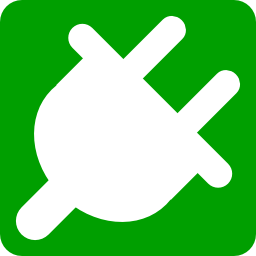
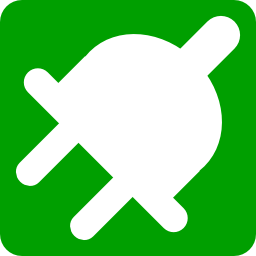
shvspy: connect to broker working

Changed region(s): [[0.25, 0.0625, 0.9375, 0.75], [0.0625, 0.25, 0.75, 0.9375]]

diff --git a/shvspy/src/servertreemodel/servernode.cpp b/shvspy/src/servertreemodel/servernode.cpp
@@ -27,18 +27,19 @@ QVariant ServerNode::data(int role) const
 		//}
 	}
 	else if(role == Qt::DecorationRole) {
-		static QIcon connected = QIcon(QStringLiteral(":/shvspy/images/connected.png"));
-		static QIcon disconnected = QIcon(QStringLiteral(":/shvspy/images/disconnected.png"));
-		ret = isConnected()? connected: disconnected;
+		static QIcon ico_connected = QIcon(QStringLiteral(":/shvspy/images/connected.png"));
+		static QIcon ico_connecting = QIcon(QStringLiteral(":/shvspy/images/connecting.png"));
+		static QIcon ico_disconnected = QIcon(QStringLiteral(":/shvspy/images/disconnected.png"));
+		switch (openStatus()) {
+		case OpenStatus::Connected: return ico_connected;
+		case OpenStatus::Connecting: return ico_connecting;
+		case OpenStatus::Disconnected: return ico_disconnected;
+		default: return QIcon();
+		}
 	}
 	else
 		ret = Super::data(role);
 	return ret;
-}
-
-bool ServerNode::isConnected() const
-{
-	return m_clientConnection && m_clientConnection->isBrokerConnected();
 }
 
 QVariantMap ServerNode::serverProperties() const
@@ -67,25 +68,22 @@ void ServerNode::setServerProperties(const QVariantMap &props)
 	emitDataChanged();
 }
 
-bool ServerNode::setConnected(bool b)
+void ServerNode::open()
 {
-	if(b == isConnected())
-		return true;
-	bool ret = true;
-	if(b) {
-		clientConnection()->open();
-		if(ret) {
-			//m_nodeId = clientConnection()->getRootNode();
-			//loadChildren(true);
-		}
-	}
-	else {
-		m_nodeId.clear();
-		clientConnection()->close();
-		removeRows(0, rowCount());
-	}
+	close();
+	clientConnection()->open();
+	m_openStatus = OpenStatus::Connecting;
 	emitDataChanged();
-	return ret;
+}
+
+void ServerNode::close()
+{
+	if(openStatus() == OpenStatus::Disconnected)
+		return;
+	if(m_clientConnection)
+		m_clientConnection->close();
+	m_openStatus = OpenStatus::Disconnected;
+	emitDataChanged();
 }
 /*
 QString ServerNode::connectionErrorString()
@@ -100,7 +98,11 @@ shv::iotqt::rpc::ClientConnection *ServerNode::clientConnection()
 {
 	if(!m_clientConnection) {
 		m_clientConnection = new shv::iotqt::rpc::ClientConnection(nullptr);
-		//m_clientConnection->setDebug(QApplication::instance()->arguments().contains(QStringLiteral("--opcua-debug")));
+		m_clientConnection->setCheckBrokerConnectedInterval(0);
+		connect(m_clientConnection, &shv::iotqt::rpc::ClientConnection::brokerConnectedChanged, this, [this](bool is_connected) {
+			m_openStatus = is_connected? OpenStatus::Connected: OpenStatus::Disconnected;
+			emitDataChanged();
+		});
 	}
 	return m_clientConnection;
 }

diff --git a/shvspy/src/mainwindow.cpp b/shvspy/src/mainwindow.cpp
@@ -191,25 +191,9 @@ void MainWindow::openNode(const QModelIndex &ix)
 {
 	//shvInfo() << QF_FUNC_NAME;
 	QStandardItem *it = TheApp::instance()->serverTreeModel()->itemFromIndex(ix);
-	{
-		ServerNode *nd = dynamic_cast<ServerNode*>(it);
-		if(nd) {
-			if(nd->isConnected()) {
-				nd->setConnected(false);
-			}
-			else {
-				bool ok = nd->setConnected(true);
-				if(ok) {
-					//shvInfo() << nd->client();
-					//connect(nd->clientConnection(), &qfopcua::Client::opcUaError, this, &MainWindow::showOpcUaError, (Qt::ConnectionType)(Qt::QueuedConnection | Qt::UniqueConnection));
-				}
-				else {
-					//QMessageBox::warning(this, tr("Connect error"), nd->connectionErrorString());
-				}
-			}
-			return;
-		}
-	}
+	ServerNode *nd = dynamic_cast<ServerNode*>(it);
+	if(nd)
+		nd->open();
 }
 
 void MainWindow::onCurrentSelectionChanged(const QModelIndex &curr_ix, const QModelIndex &prev_ix)

diff --git a/shvspy/src/servertreemodel/servernode.h b/shvspy/src/servertreemodel/servernode.h
@@ -10,6 +10,8 @@ class ServerNode : public ShvNodeItem
 private:
 	typedef ShvNodeItem Super;
 public:
+	enum class OpenStatus {Invalid = 0, Disconnected, Connecting, Connected};
+public:
 	explicit ServerNode(const std::string &server_name);
 	~ServerNode() Q_DECL_OVERRIDE;
 
@@ -18,8 +20,9 @@ public:
 	int oid() const {return m_oid;}
 	void setOid(int i) {m_oid = i;}
 
-	bool isConnected() const;
-	bool setConnected(bool b);
+	OpenStatus openStatus() const {return m_openStatus;}
+	void open();
+	void close();
 	//QString connectionErrorString();
 
 	QVariantMap serverProperties() const;
@@ -31,6 +34,7 @@ private:
 	int m_oid = 0;
 	std::string m_serverName;
 	shv::iotqt::rpc::ClientConnection *m_clientConnection = nullptr;
+	OpenStatus m_openStatus = OpenStatus::Disconnected;
 };
 
 #endif // SERVERNODE_H

diff --git a/shvspy/src/servertreemodel/shvnodeitem.h b/shvspy/src/servertreemodel/shvnodeitem.h
@@ -4,8 +4,9 @@
 
 class ServerNode;
 
-class ShvNodeItem : public QStandardItem
+class ShvNodeItem : public QObject, public QStandardItem
 {
+	Q_OBJECT
 private:
 	typedef QStandardItem Super;
 public:
